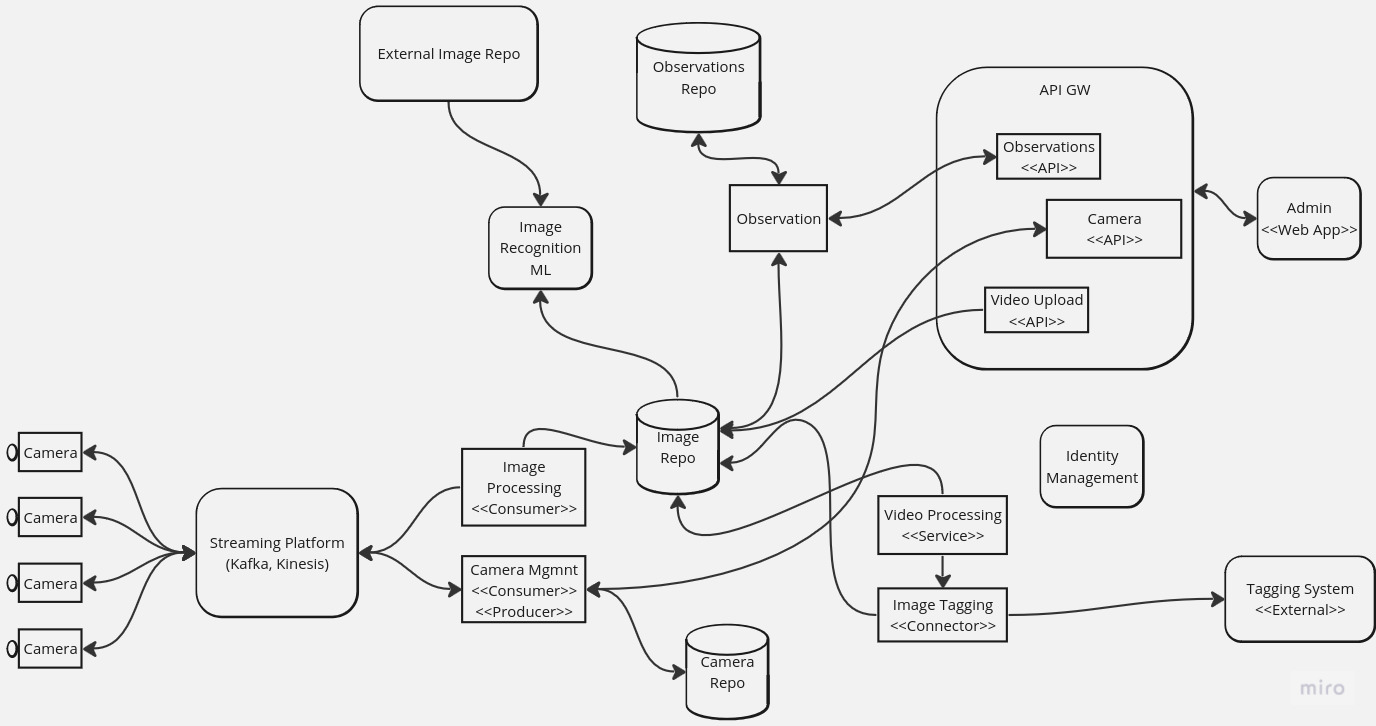
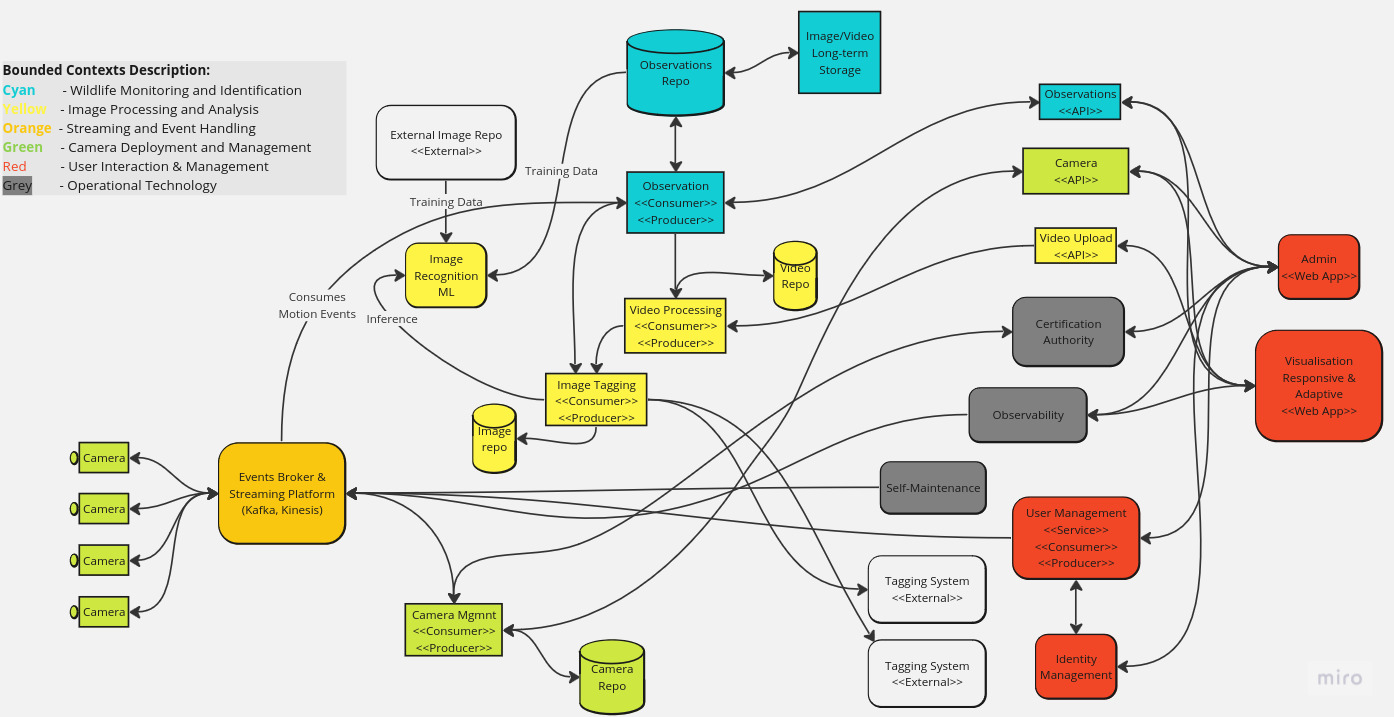
More tidy-up

diff --git a/README.md b/README.md
@@ -3,68 +3,90 @@
 Wildlife AI is a charitable trust using AI for wildlife conservation. Wildlife.ai work with grassroots wildlife conservation projects and develop open-source solutions using machine learning. They also 
 organise community events, seminars and educational activities to build and maintain machine learning solutions to reduce the current rate of species extinction.
 
-# Proposed Solution
-
-The proposed solution is captured in the <a href="architecture.md">Architecture page</a>
-
 # Assumptions
 
-* We assume that a thorough vetting process is applied for accepting users onto the platform to ensure, as much as possible, that information regarding animals location and numbers are not made available to animal poachers and other such criminal organisations. We expect this facility to be in place as it will be very difficult for the application to ensure the user's genuine reasons for requesting such information. 
+* We assume that a thorough vetting process is applied for accepting users onto the platform to ensure, as much as possible, that information regarding animals location and numbers are not made available to animal poachers and other such criminal organisations. We expect this facility to be in place as it will be very difficult for the application to ensure the user's genuine reasons for requesting such information.
 * Start with a mobile client and a web application. Same responsive and adaptive application (BFFs might be used in the future)
-* Observability using Cloud native solutions at the beginnig. No particular reporting needs but the solution should accommodate such requirements in the future.
+* Observability using Cloud native solutions at the beginning. No particular reporting needs but the solution should accommodate such requirements in the future.
+* Wildlife.ai users are allowed to buy a camera and install it wherever they consider appropriate, to spot specific wildlife
 
 # Considerations
 
 * Cameras will have to have the ability of connecting to a message broker using IoT protocols MQTT would be preferable. 
 * Cameras will be programmed to send a heartbeat message at regular intervals for as long as they are live.
+* Cameras are pre-configured and ready to connect to the platform. The only requirement for the user installing the camera is to purchase a mobile data SIM card and plug it into the camera before turning it on.
 
 # Use Cases
 
-* Upload to platforms
-* View device information
-* Analyse frames
+* Identify wildlife in an image and retain necessary information for future research.
+* View device(camera) information
+* Device self-registration
+* Device-User association. If I buy a camera I want to be the one allowed to manage it, along-side the Wildelife.ai administrators
+* Analyse Images
 * Analyse video
+* Observability - Monitoring and alerting for device status as well as whole system availability
 
 # Risks
 
 * Animal poachers or such criminals can take advantage of the information made available through this solution
 * Cameras may not have the necessary hardware capabilities to connect to the message broker for heartbeat and updates so more manual interventions required
 
-# Priotised Architecture Characteristics
+# Prioritised Architecture Characteristics ("illities")
 
-# Deployability
-Wildlife.AI will potentially deploy hundreds, if not thousands, of cameras in the wild where network connectivity may be poor. We will require the cameras to be programmed to accommodate the following functions:
-* Connect to a message broker of choice MQTT, AMQPS, HTTPS
-* Send a Heartbeat message containing camera specific information (IP, device version, capabilities) at regular intervals
-* Send captured images whenever a "Movement" event was triggered
-* Connect to a specific message broker topic to collect updates - new ML model, new image to recognize, new software features
+## Extensibility
+Wildlife.AI will encourage its community of users to purchase and install cameras in the wild, especially in places and regions where there might be endangered species or other rare wildlife. Therefore, Wildlife.AI could potentially deploy a large number of these cameras in the wild and, in the future, may allow other devices to be registered as long as they can provide the necessary information via the connectivity channels available. 
 
-# Affordability
-Wildlife.ai are a charity and thus any solution envisaged must be affordable and without costly third party licenses. The solution must avoid the use of expensive third-party solutions and use cloud native services avoiding cloud vendor lock-in.
+## Total Cost
+Wildlife.ai are a non-profit organisation and thus any solution proposed must be cost-effective and not incur unnecessary expenses such as third party licenses or "idle" runtime costs. The proposed solution must allow for the use of Elastic cloud technologies. The implementation of this architecture must follow the cloud-native patterns.
 
-# Availability
-Employ architectural design patterns to handle exceptions and erros in such a way to maintain the following the availabiltiy for the following functionality:
-* Endpoints for cameras to connect into as long as possible; starting with 1-nine of availability for the Streaming platform.
-* Web application for Widlife.ai users' access to images, cameras management and observations is important but we consider that a 
-Given the harsh environment wildlife.ai cameras operate in, the equipment must be able to endure and withstand physical damage as much as possible.
+## Scalability
+The architecture must ensure that the system can accommodate an increasing number of cameras. People can buy and install cameras at their own expense, so the solution must be able to accommodate these cameras when they come online.
+The application must also allow for a growing number of users, both regular users and camera administrators, to subscribe and operate on the platform.
 
-# Scalability
-The architecture must ensure that the application can accommodate an increasing number of cameras. People can buy and install cameras at their own expense so the solution must be able to accommodate these cameras when they come online.
-The application must also allow for a growing number of users, both regular users and camera administrators, to subscribe and operate on the platform
-
-# Privacy
-Access to the data captures regarding animals locations and other duch details represent important pieces of information for the future of animals concerned. Therefore, a thorough vetting process must be applied for accepting users onto the platform. The user registration process must have 3 stages: 
+## Security & Privacy
+Access to the data captures regarding animals locations and other such details represent important pieces of information for the future of animals concerned. Therefore, a thorough vetting process must be applied for accepting users onto the platform. The user registration process must have 3 stages: 
 1. Registration - users register and submit the required documentation
 2. Vetting - Wildlife.ai ensures that the person wanting to use the platform has been properly verified.
-3. Activation - After the user has been vetted and allowed onto the platform an activation email and unique URL are being generated so that the user can finalise the activaton process.
+3. Activation - After the user has been vetted and allowed onto the platform an activation email and unique URL are being generated so that the user can finalise the activation process.
+The system must be secure so that the information regarding camera locations as well as Observations should only be accessible to screened users.
+All data navigating through our solution is backed by latest TLS version and we recommend employing data repositories that can encrypt data at rest.
 
-# Observability
+### Internal Certification Authority
+We recommend implementing an **Internal Certification Authority** so that we can reduce the impact on comuptational resources on the Camera to implement a sophisticated OAuth 2.0 based token exchange or other authentication and authorisation mechanism to access the Event Broker. This can be implemented using products such as Hashicorp Vault, which offer the services for **Secrets Management** as well as **Internal CA**
+
+## Fault-tolerance (Observability)
 The platform must be highly observable, employing adequate monitoring and alerting facilities, so that it self-heals where possible but also that it informs the support teams to the error occurred.
-The platform will also provide a way for monitoring and alerting in regards to the state of the cameras. The Observability service will subscribe to the Heartbeat topic and monitor the last time a camera was seen alive or battery low or any other issues that it may identify or infer from the Heartbeat, or lack of, messages. 
+The platform will also provide a way for monitoring and alerting in regards to the state of the cameras. The Observability service will subscribe to the Heartbeat topic and monitor the last time a camera was seen alive or battery low or any other metrics that it may identify or infer from the Heartbeat message, or lack of.
+
+## Performance
+The architecture must allow for the implementation of a performant system. The Performance of the system will be measured by the number of images processed in a time interval, by the number of events awaiting processing, by the response time for users' requests, the time a camera because available on the system once it's live, etc.
+
+### Availability
+We have identified availability as an important "illity" for our design but we considered that it doesn't have to apply to the whole system so a 1-nine level is more than sufficient for the following features:
+* Endpoints for cameras to connect into as long as possible; Streaming platform.
+* Web application for Widlife.ai users' access to images, cameras management and observations
+Given the harsh environment wildlife.ai cameras operate in, the equipment must be able to endure and withstand physical damage as much as possible.
+
+# Proposed Solution
+
+We have taken the **Domain Driven Design** approach to understanding and braking down the problem to solve. We have identified a few contexts and components that should be implementing our solution, with the caveat that this separation is only the beginning and the business domains as well as observing the Conway’s Law, may result in different grouping of these components and different bounded contexts.
+
+These **Bounded Contexts** will help in identifying the services that need to be implemented and reduce the unnecessary coupling between components, creating the acceptable size of features and functionality that need to be kept in a consistent grouping and relying on the same data store. 
+
+Also, these contexts will help in identifying the Events that need to be generated by the different components in the system as well as the APIs to expose the information necessary for the contexts they interact with; it is also the best way to provide ***Privacy by Design***
+
+The Bounded Contexts are enumerated below and detailed in the **[Bounded Contexts document](/docs/boundedcontexts/boundedcontexts.md)**
+1. Camera Deployment and Management
+2. Image Processing and Analysis
+3. User Interaction and Management
+4. Wildlife Monitoring and Identification
+5. Streaming and Event Handling
+
+Following on from the Bounded Contexts we are proposing the following architecture captured in [this diagram](/images/archdiagram/Components.jpg)
 
 # Requirements
 
-## REQ-001 - Users should be able to communicate with the camera remotely for reasons of management such as updating features, uploading subject images,uploading new ML models, downlaoding captured content, checking battery and other operational metrics <br />
+## REQ-001 - Users should be able to communicate with the camera remotely for reasons of management such as updating features, uploading subject images,uploading new ML models, downloading captured content, checking battery and other operational metrics <br />
 ## REQ-002 - Users should be able to analyse the videos using common camera trap labelling platforms
 (Wildlife Insights, TrapTagger or Trapper) <br />
 ## REQ-003 - Users should be able to publish frames from the videos to iNaturalist for experts to help with
@@ -103,13 +125,7 @@ To abide by defence in depth
 
 Lack of APIs on third party systems
 
-# Architecture
-
 # Threat Model
-
-# Risk Storming
-
-![Risk Model](image.png)
 
 # Architectural Decision Records
 

diff --git a/docs/boundedcontexts/boundedcontexts.md b/docs/boundedcontexts/boundedcontexts.md
@@ -1,18 +1,41 @@
-The Wildlife.AI comes across as a small solution, with just four bullet points of requirements. However, when breaking this down, we found several 
-"units" of tightly cohesive services, which form our bounded contexts. 
+# Camera Deployment and Management:
+This context involves the setup, configuration, and maintenance of cameras. It includes registering new cameras to the system, managing firmware updates, and handling camera health and status.
+We will require the cameras to be programmed to accommodate the following functions:
+* Connect to a message broker of choice MQTT, AMQPS, Kafka
+* Send a Heartbeat message containing camera specific information (IP, device version, capabilities, geo location) at regular intervals
+* Send captured images whenever a "Movement" event was triggered
+* Connect to a specific message broker topic to collect updates - new ML model, new image to recognize, new software features
 
-In this analysis, we follow the rule that a bounded context should be a business capability and not a single entity. For example, a single entity in this 
-domain would be:
+The Cameras will not have to expose any API or other interface, given their reduced computational power. We recommend that cameras are programmed to only connect to the message broker for both sending the information related to motion events and consuming messages containing firmware updates or configuration updates from a specific Topic, could be a camera specific topic or all camera updates having one Topic and multiple partitions depending on camera IDs.
 
-- Camera
-- Frame
-- Video
-- Animal
-- Etc...
+Each camera is configured with a digital certificate signed by the Internal Certification Authority, to enable Mutual TLS for connecting to the message broker. This certificate will be maintained via the same mechanism as explained above.
 
-This is incorrect, and instead we are looking groupings by business capability.
+# Wildlife Monitoring and Identification:
 
-- Camera management - the ability to connect to and retrieve/delete a camera and view its footage
-- Camera Bootstrap
-- Frames Analysis
-- Video Analysis
+This focuses on the ongoing monitoring activities, capturing events of interest (like wildlife movements), and identifying the species, behaviors, and other relevant ecological data.
+
+We have identified the concept of ***"Observation"***, which encapsulates the necessary information regarding a wildlife identification such as: wildlife identified, geo location, time and date, link to relevant image, etc. The **Observations** the entities that Wildlife.AI and the commnity are most interested in. An Observation is created in the **Wildlife Monitoring and Identification** Context by the Observation components after it consumes a Motion Event generated by Cameras in the Events Broker. The Observation component will then create an "Image Tagging" event for every image in the "Motion" Event or a "Video Tagging" event for every footage in the "Motion" event. This component also consumes "Image Tagged" or "Video Tagged" events produced by components in the **Image Processing and Analysis** context.
+
+This separation of concerns allows for Observations to be created and be available to users even if they are not fully completed, so that users can identify the wildlife or ensure the Observation is not useful, Motion Event was generated by a person moving in front of the camera or other such non-wildlife related events.
+
+# Image Processing and Analysis:
+
+This area deals with the ingestion of images or footage from the cameras, processing them through machine learning models for wildlife detection and recognition, and other external image tagging systems.
+
+The components in this Bounded Context consume "Image Tagging" and "Video tagging" events produced by the Observation component when required by the **Wildlife Monitoring and Identification** context. Once the Images or Videos are tagged the corresponding "image Tagged" or "Video Tagged" events are produced so that the "Observations" can be finalised and can also can be used to maintain the image repository ensuring that the images that are not wildlife related are removed by the "Self-Maintenance" component of the system.
+
+We have also included the internal Machine Learning system for Image recognition in this Bounded Context as it is closely dependent on the imaged processed but it can also be a separate context if it needs to be evolving independently or the internal organisation has a dedicated department for it.
+
+
+# User Interaction and Management:
+
+This context covers everything related to user accounts, including registration, authentication, profile management, and providing users with a dashboard or interface to interact with the system.
+
+
+# Streaming and Event Handling:
+
+This involves the real-time processing of data streams from cameras, handling the event-driven architecture, ensuring messages and events are correctly brokered between components, and managing the flow of information in the system.
+
+# Data Management and Storage (as a cross-cutting concern within each context):
+
+Although previously discussed as a separate context, data management and storage should be considered an integral part of each bounded context, handling the persistence, retrieval, and security of data relevant to that context.
